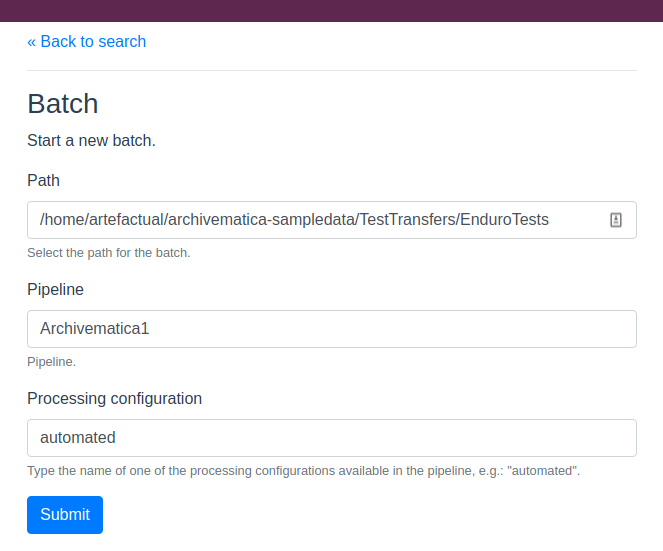
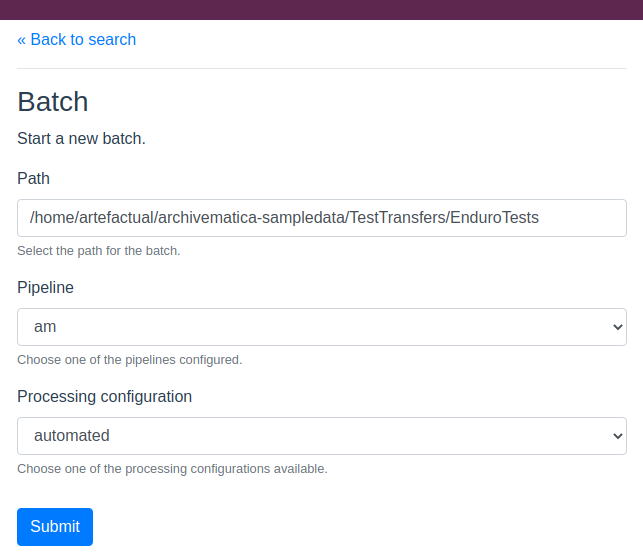
Add dropdowns to batch import form

diff --git a/ui/src/views/Batch.vue b/ui/src/views/Batch.vue
@@ -27,15 +27,13 @@
               <b-form-input id="input-path" v-model="form.path" type="text" required></b-form-input>
             </b-form-group>
 
-            <b-form-group label="Pipeline" label-for="input-pipeline" description="Pipeline.">
-              <b-form-input id="input-pipeline" v-model="form.pipeline" type="text" required></b-form-input>
-            </b-form-group>
+            <pipeline-dropdown v-on:pipeline-selected="onPipelineSelected($event)"/>
 
-            <b-form-group label="Processing configuration" label-for="input-processing-conf" description="Type the name of one of the processing configurations available in the pipeline, e.g.: &quot;automated&quot;.">
-              <b-form-input id="input-processing-config" v-model="form.processingConfig" type="text"></b-form-input>
-            </b-form-group>
+            <pipeline-processing-configuration-dropdown :pipeline-id="pipelineId" v-on:pipeline-processing-configuration-selected="form.processingConfig = $event"/>
 
-            <b-button type="submit" variant="primary">Submit</b-button>
+            <div class="actions">
+              <b-button type="submit" variant="primary">Submit</b-button>
+            </div>
 
           </b-form>
 
@@ -51,8 +49,15 @@
 
 import { Component, Vue } from 'vue-property-decorator';
 import { api, EnduroBatchClient } from '../client';
+import PipelineDropdown from '@/components/PipelineDropdown.vue';
+import PipelineProcessingConfigurationDropdown from '@/components/PipelineProcessingConfigurationDropdown.vue';
 
-@Component({})
+@Component({
+  components: {
+    PipelineDropdown,
+    PipelineProcessingConfigurationDropdown,
+  },
+})
 export default class Batch extends Vue {
 
   private form: any = {
@@ -61,9 +66,16 @@ export default class Batch extends Vue {
     processingConfig: null,
   };
 
+  private pipelineId: string = '';
+
   private status: api.BatchStatusResponseBody = {
     running: false,
   };
+
+  private onPipelineSelected($event: any): void {
+    this.pipelineId = $event ? $event.value : null;
+    this.form.pipeline = $event ? $event.text : null;
+  }
 
   private get alertVariant() {
     return this.status.status === 'completed' ? 'success' : 'warning';

diff --git a/ui/src/components/PipelineProcessingConfigurationDropdown.vue b/ui/src/components/PipelineProcessingConfigurationDropdown.vue
@@ -1,0 +1,64 @@
+<template>
+  <div class="form-group">
+
+    <label for="pipeline-processing-config-dropdown">Processing configuration</label>
+
+    <select
+      class="form-control"
+      id="pipeline-processing-configuration-dropdown"
+      described-by="pipeline-processing-configuration-dropdown-help"
+      v-on:change="$emit('pipeline-processing-configuration-selected', $event.target.value)"
+      required>
+
+      <option selected value>Select a processing configuration</option>
+
+      <option
+        v-for="item in options"
+        v-bind:value="item.value">
+          {{ item.text }}
+      </option>
+
+    </select>
+
+    <small
+      id="pipeline-processing-configuration-dropdown-help"
+      class="form-text text-muted">
+        Choose one of the processing configurations available.
+    </small>
+
+  </div>
+</template>
+
+<script lang="ts">
+
+import { Component, Vue, Watch } from 'vue-property-decorator';
+import { api, EnduroPipelineClient } from '../client';
+
+@Component({
+  props: {
+    pipelineId: {
+      type: String,
+      required: false,
+    },
+  },
+})
+export default class PipelineProcessingConfigurationDropdown extends Vue {
+
+  private options: Array<{ text: string, value: string }> = [];
+
+  @Watch('pipelineId')
+  private onPipelineChanged(val: string, oldVal: string) {
+    if (!val) {
+      this.options = [];
+      return;
+    }
+    EnduroPipelineClient.pipelineProcessing({id: val}).then((response) => {
+      response.forEach((name) => {
+        this.options.push({text: name, value: name});
+      });
+    });
+  }
+
+}
+
+</script>

diff --git a/ui/src/components/PipelineDropdown.vue b/ui/src/components/PipelineDropdown.vue
@@ -1,0 +1,61 @@
+<template>
+  <div class="form-group">
+
+    <label for="pipeline-dropdown">Pipeline</label>
+
+    <select
+      class="form-control"
+      id="pipeline-dropdown"
+      @change="onChange"
+      required>
+
+      <option selected value>Select a pipeline</option>
+
+      <option
+        v-for="item in options"
+        v-bind:value="item.value">
+          {{ item.text }}
+      </option>
+
+    </select>
+
+    <small
+      id="pipeline-dropdown-help"
+      class="form-text text-muted">
+        Choose one of the pipelines configured.
+    </small>
+
+  </div>
+</template>
+
+<script lang="ts">
+
+import { Component, Vue } from 'vue-property-decorator';
+import { api, EnduroPipelineClient } from '../client';
+
+@Component({})
+export default class PipelineDropdown extends Vue {
+
+  private options: Array<{ text: string, value: string }> = [];
+
+  private mounted(): void {
+    EnduroPipelineClient.pipelineList({}).then((response) => {
+      response.forEach((element) => {
+        if (element.id === undefined) {
+          return;
+        }
+        this.options.push({text: element.name, value: element.id});
+      });
+    });
+  }
+
+  // Emit the option or null.
+  private onChange(event: Event): void {
+    const select = event.target as HTMLSelectElement;
+    const option = this.options.filter((item) => item.value === select.value);
+    this.$emit('pipeline-selected', option.length ? option[0] : null);
+  }
+
+}
+
+</script>

diff --git a/ui/src/common/style.scss b/ui/src/common/style.scss
@@ -45,3 +45,7 @@ footer {
   color: white;
   background-color: #dd00aa;
 }
+
+.actions {
+  margin-top: 30px;
+}
